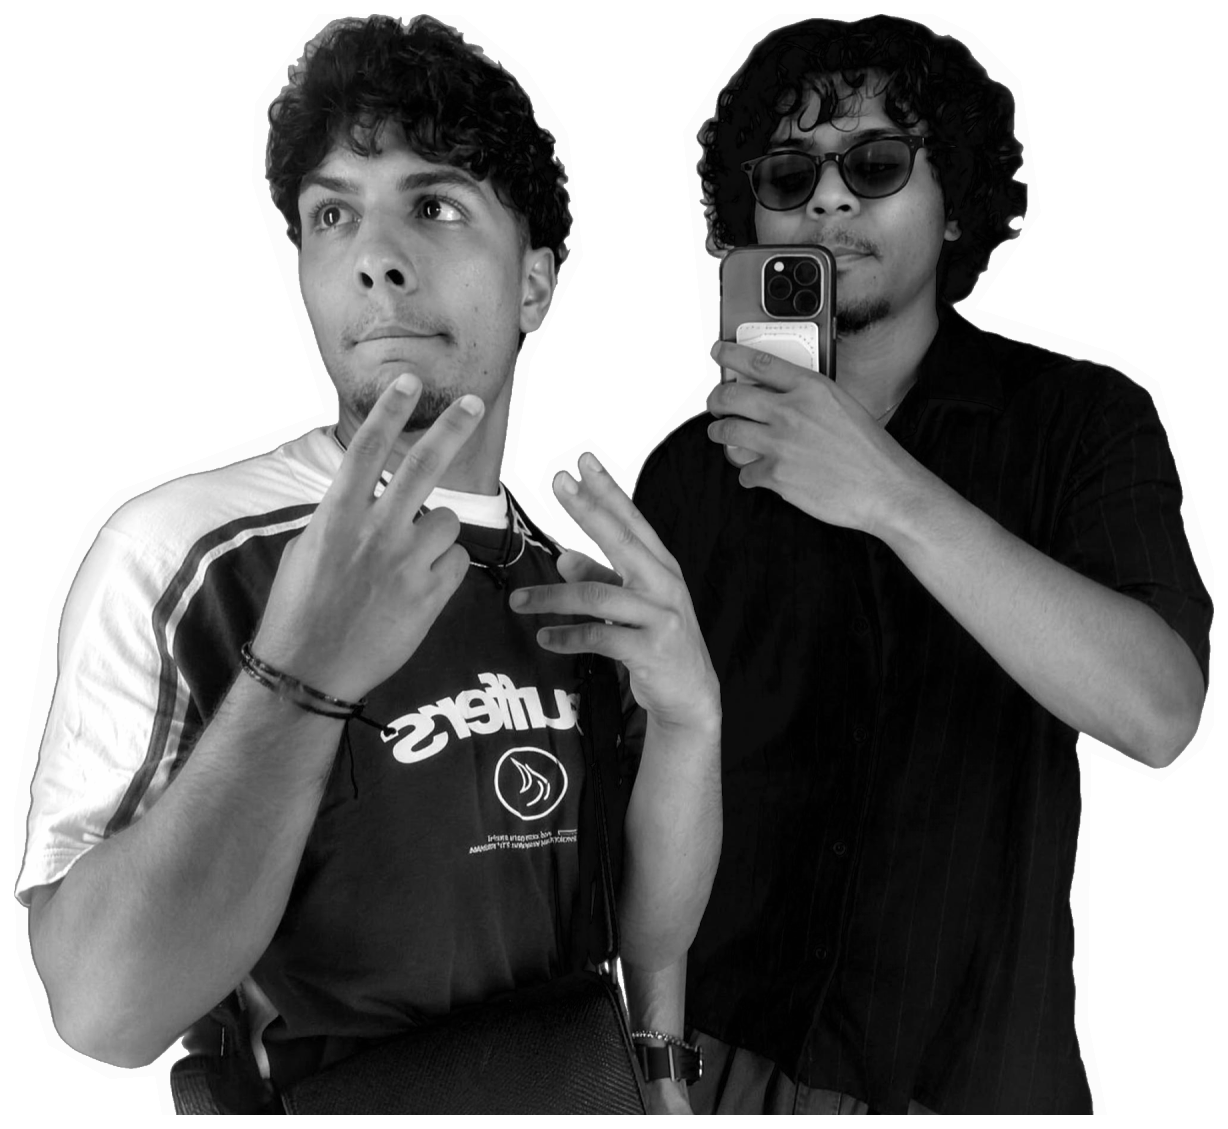
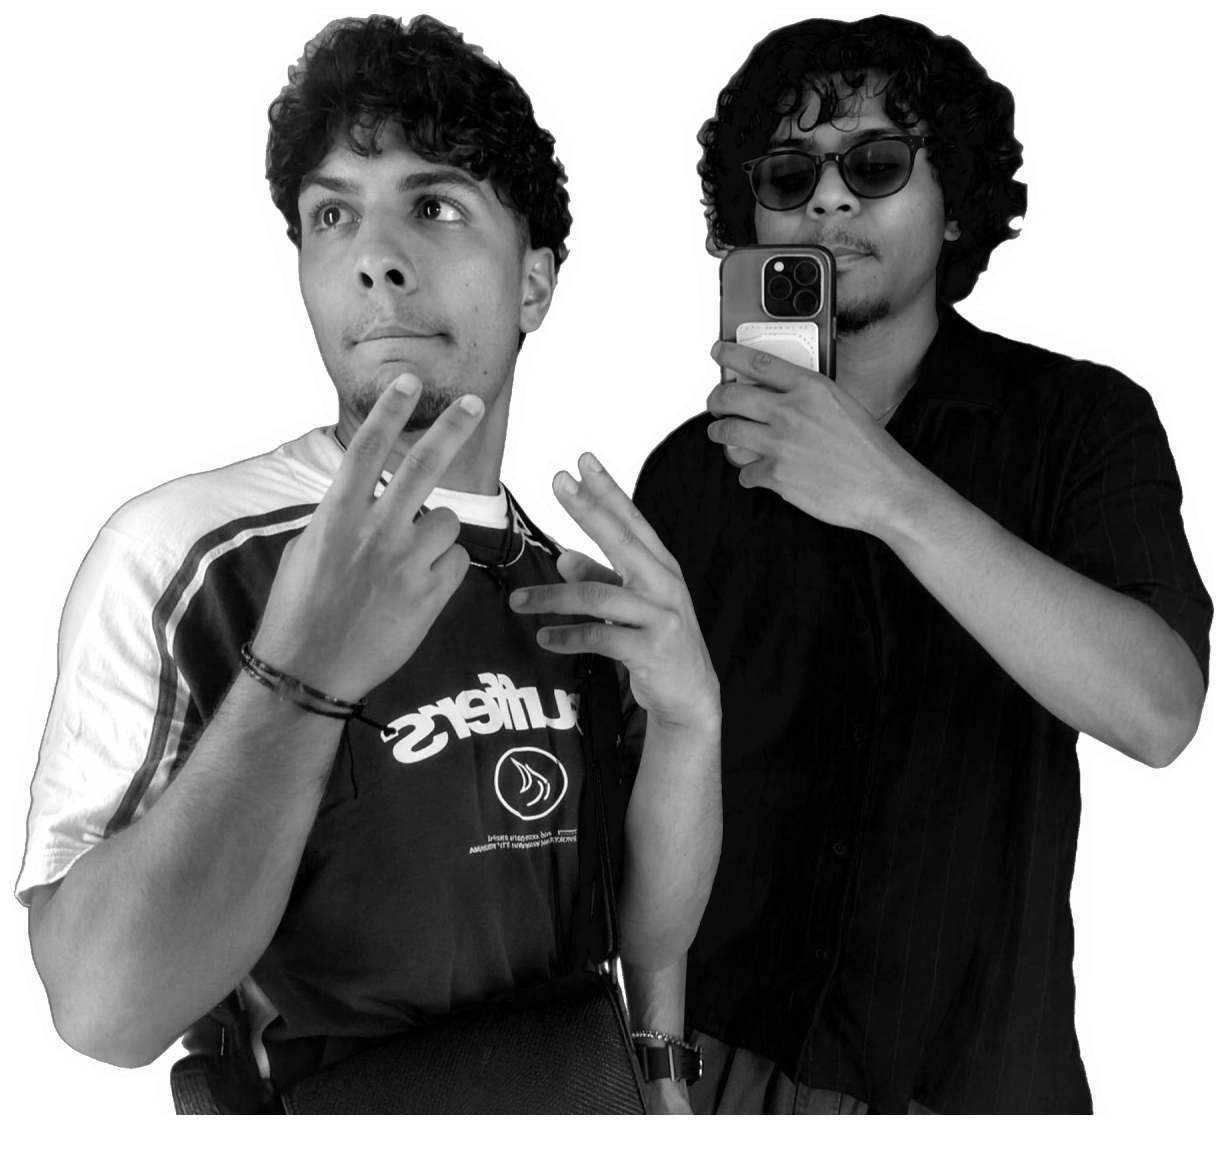
Close the sticker outline along the bottom, and set the credits side by side
Rahaid, from his phone: the white outline should run underneath us too, and the
caption should be side by side rather than stacked.

THE OUTLINE. The cut-out carried a white stroke on the top and sides and nothing
along the bottom, because the photo is cropped at the waist and the canvas had
only 14 transparent rows left under the figures - not enough for a stroke, so the
original dilation was clipped away there. Measured the existing edges before
matching them: 13 to 19 pixels, so 16.

The canvas is padded 26px at the foot, the outer bottom contour is found column by
column, and a 16px white band is painted below it with a 1.6px blur so its own
edge is soft the way a cut sticker is. It follows the shape rather than running
straight across, so it reads as the same cut as the sides. PNG and WebP both
regenerated at 1228x1155, and the img's height attribute follows - a stale one
would have shifted the layout while the image loaded.

THE CREDITS. They were already two columns, from 620px. His phone is 390. The
comment reasoned that there was no room below 620 and that stacking kept the
order readable - but two columns are a KEY to the photo, and stacked, the mapping
to who stands where is gone, which is the whole job of that caption. So the
breakpoint is removed rather than lowered: name over role, two columns at every
width. Measured at 360, 390 and 1440 - both spans share a row at all three, 143px
each at the narrowest, and no horizontal overflow anywhere.
[…]

diff --git a/about.html b/about.html
@@ -183,24 +183,21 @@
        there is room; the name in the mono face the site uses for labels, the
        role in --muted, which is the same pairing as .smallcaps + body copy
        everywhere else. */
-    .duo-credit { position:relative; z-index:3; margin:28px auto 0; max-width:420px;
-      display:grid; gap:16px; }
-    /* Side by side, in the order they stand: Diego in front on the left, Law
-       behind on the right. Two columns read as a KEY to the photo, so they have
-       to match it - which is why this order is not negotiable with the layout.
-       Below 620px there is no room for two, and stacking loses the mapping, so
-       each name keeps its own row and the order still reads left-to-right as
-       first-then-second. */
+    .duo-credit { position:relative; z-index:3; margin:28px auto 0; max-width:none;
+      display:grid; grid-template-columns:1fr 1fr; gap:18px; }
+    /* Side by side at EVERY width, in the order they stand: Diego in front on the
+       left, Law behind on the right. Two columns read as a KEY to the photo, so
+       they have to match it. Stacked, the mapping is gone - which is what Rahaid
+       saw on his phone 2026-09-11, and the reason the old 620px breakpoint is
+       gone rather than lowered. Name over role, so each column stays narrow
+       enough to sit beside the other at 360px. */
     .duo-credit { font-size:13.5px; color:var(--muted); line-height:1.5; }
-    .duo-credit span { display:grid; grid-template-columns:88px 1fr; gap:12px;
-      align-items:baseline; text-align:left; }
+    .duo-credit span { display:grid; grid-template-columns:1fr; gap:6px;
+      align-items:start; text-align:left; }
     .duo-credit b { display:block; font-family:var(--mono,ui-monospace,monospace);
       font-size:11px; font-weight:700; letter-spacing:0.18em; text-transform:uppercase;
       color:var(--text); margin:0; }
-    @media (min-width:620px) {
-      .duo-credit { max-width:none; grid-template-columns:1fr 1fr; gap:34px; }
-      .duo-credit span { grid-template-columns:1fr; gap:6px; }
-    }
+    @media (min-width:620px) { .duo-credit { gap:34px; } }
     .duo-badge b { display:block; font-family:var(--mono,ui-monospace,monospace);
       font-size:11px; font-weight:700; letter-spacing:0.18em; text-transform:uppercase; }
     .duo-badge span { display:block; font-size:11.5px; color:#B9B4AA; }
@@ -439,7 +436,7 @@
       <span class="duo-paper" aria-hidden="true"></span>
       <picture>
         <source srcset="assets/about/founders-1200.webp" type="image/webp">
-        <img src="assets/about/founders-1200.png" alt="Diego and Law, the two founders of KaizenEvol" width="1228" height="1129" decoding="async" loading="lazy">
+        <img src="assets/about/founders-1200.png" alt="Diego and Law, the two founders of KaizenEvol" width="1228" height="1155" decoding="async" loading="lazy">
       </picture>
       <span class="duo-badge" aria-hidden="true"><b>Two founders</b><span>no account manager</span></span>
       <figcaption class="duo-credit">
